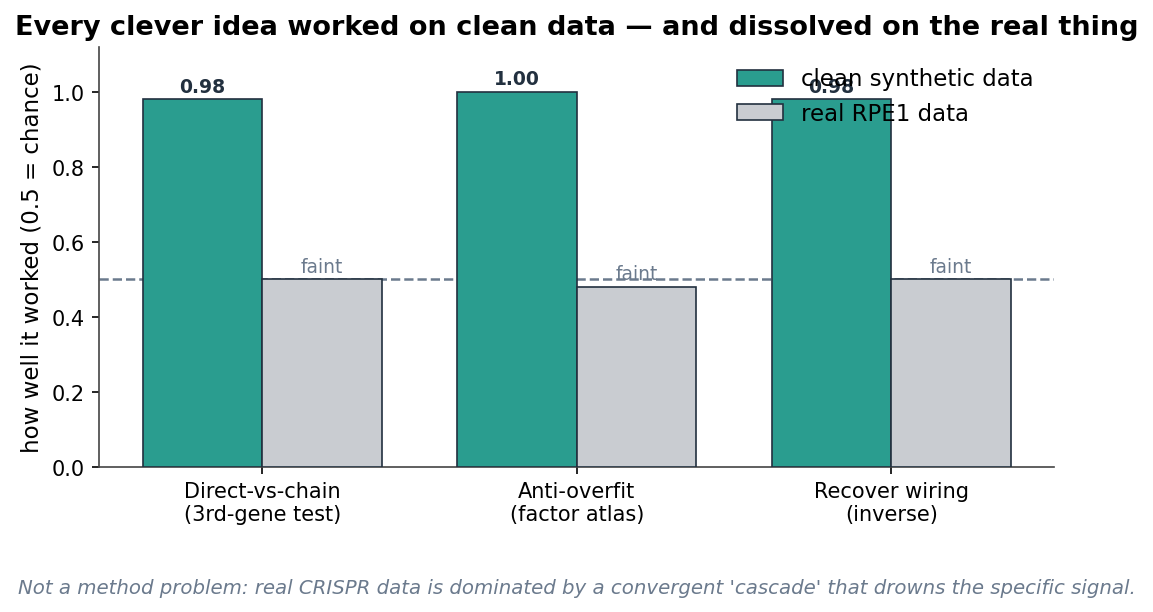
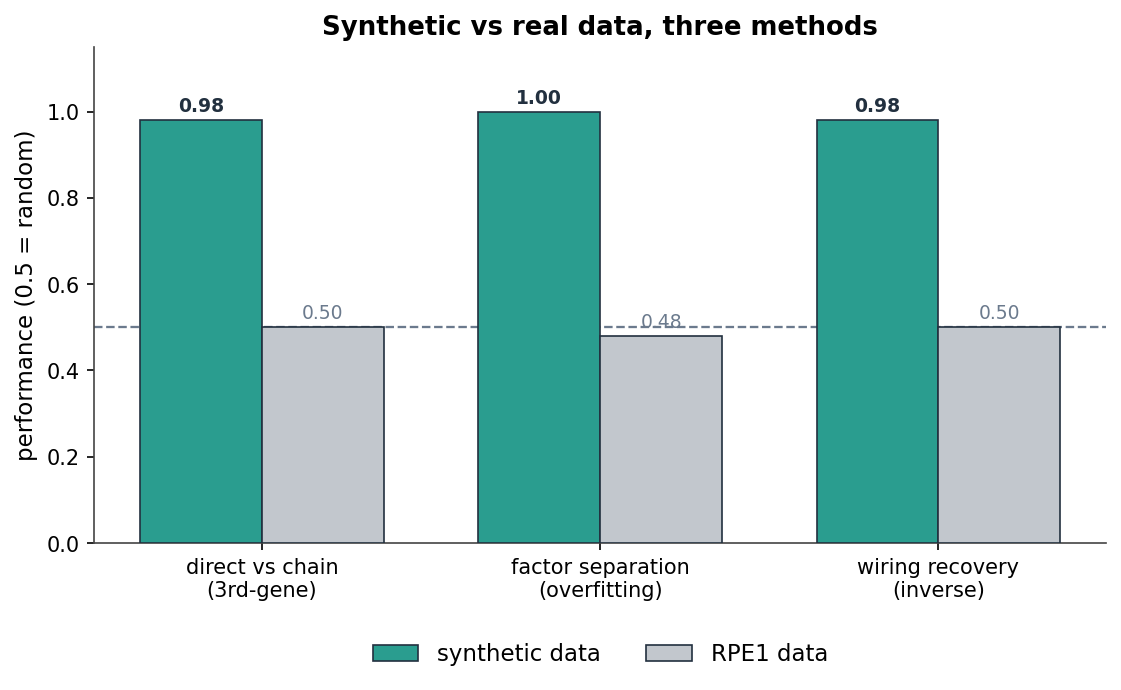
Rewrite README in technical style; fix figure text overlap
Replace promotional phrasing with factual statements and numbers. Remove em-dashes,
first-person, and editorial captions. Expand method and result detail (correlation,
LASSO, GENIE3, stability selection, fusion, interventional diagnostics) with the actual
metrics per phase. Regenerate the three figures with factual titles, non-overlapping
labels, and the legend placed outside the axes.

Changed region(s): [[0.0, 0.0, 0.9991, 0.8693], [0.0, 0.9314, 0.9679, 0.9935]]

diff --git a/docs/figures/make_figures.py b/docs/figures/make_figures.py
@@ -1,5 +1,4 @@
-"""Generate the README figures from the project's real numbers (no data reload needed).
-Run: python docs/figures/make_figures.py"""
+"""Generate README figures from the project's numbers. Run: python docs/figures/make_figures.py"""
 from pathlib import Path
 import matplotlib
 matplotlib.use("Agg")
@@ -11,69 +10,59 @@ plt.rcParams.update({
     "figure.facecolor": "white", "axes.facecolor": "white",
     "axes.edgecolor": "#444", "axes.linewidth": 0.8,
     "axes.spines.top": False, "axes.spines.right": False,
-    "font.size": 11, "axes.titlesize": 13, "axes.titleweight": "bold",
+    "font.size": 11, "axes.titlesize": 12.5, "axes.titleweight": "bold",
     "axes.labelsize": 11, "xtick.labelsize": 10, "ytick.labelsize": 10,
 })
 INK, MUTED = "#22303f", "#6b7a8d"
-TEAL, CORAL, GOLD, SLATE = "#2a9d8f", "#e76f51", "#e9c46a", "#577399"
+TEAL, CORAL, GOLD = "#2a9d8f", "#e76f51", "#e9c46a"
 
 
-# ---- Figure 1: the regime ladder ----
-fig, ax = plt.subplots(figsize=(8, 4.4))
-labels = ["DREAM4\n(time-series,\nsimulated)", "BEELINE\n(static\nsingle-cell)", "CausalBench / RPE1\n(real CRISPR\ninterventions)"]
+# ---- Figure 1: orientation accuracy by data type ----
+fig, ax = plt.subplots(figsize=(7.6, 4.6))
+labels = ["DREAM4\n(time-series,\nsimulated)", "BEELINE\n(static\nsingle-cell)", "RPE1\n(CRISPR\ninterventions)"]
 centers = [0.92, 0.60, 0.67]
 lo = [0.88, 0.50, 0.61]; hi = [0.96, 1.00, 0.70]
-colors = [TEAL, GOLD, CORAL]
 x = np.arange(3)
-ax.bar(x, centers, width=0.6, color=colors, edgecolor=INK, linewidth=0.8, zorder=3)
+ax.bar(x, centers, width=0.55, color=[TEAL, GOLD, CORAL], edgecolor=INK, linewidth=0.8, zorder=3)
 ax.errorbar(x, centers, yerr=[np.array(centers) - lo, np.array(hi) - centers],
-            fmt="none", ecolor=INK, elinewidth=1.4, capsize=6, zorder=4)
-ax.axhline(0.5, ls="--", color=MUTED, lw=1.2, zorder=2)
-ax.text(2.45, 0.515, "chance (can't orient)", color=MUTED, fontsize=9, ha="right")
+            fmt="none", ecolor=INK, elinewidth=1.3, capsize=6, zorder=4)
+ax.axhline(0.5, ls="--", color=MUTED, lw=1.1, zorder=2)
+ax.text(2.55, 0.47, "0.5 = random", color=MUTED, fontsize=9, va="top", ha="right")
 for xi, c in zip(x, centers):
-    ax.text(xi, c + 0.055, f"{c:.2f}", ha="center", fontweight="bold", color=INK)
+    ax.text(xi, c + 0.05, f"{c:.2f}", ha="center", fontweight="bold", color=INK)
 ax.set_xticks(x); ax.set_xticklabels(labels)
-ax.set_ylim(0.35, 1.05); ax.set_ylabel("recoverability of edge direction")
-ax.set_title("Direction is only recoverable when the data contains it")
-ax.text(0.5, -0.34, "Identifiability is set by the data regime, not the method — the project's main finding.",
-        transform=ax.transAxes, ha="center", fontsize=9.5, color=MUTED, style="italic")
+ax.set_xlim(-0.75, 2.6); ax.set_ylim(0.4, 1.05)
+ax.set_ylabel("orientation accuracy")
+ax.set_title("Edge-direction recovery by data type")
 fig.tight_layout(); fig.savefig(OUT / "fig1_regime_ladder.png", dpi=150, bbox_inches="tight"); plt.close(fig)
 
 
-# ---- Figure 2: every idea worked on clean data, dissolved on real ----
-fig, ax = plt.subplots(figsize=(8, 4.4))
-ideas = ["Direct-vs-chain\n(3rd-gene test)", "Anti-overfit\n(factor atlas)", "Recover wiring\n(inverse)"]
-clean = [0.98, 1.00, 0.98]
-real = [0.50, 0.48, 0.50]
-x = np.arange(3); w = 0.38
-ax.bar(x - w/2, clean, w, label="clean synthetic data", color=TEAL, edgecolor=INK, linewidth=0.8, zorder=3)
-ax.bar(x + w/2, real, w, label="real RPE1 data", color="#c9ccd1", edgecolor=INK, linewidth=0.8, zorder=3)
-ax.axhline(0.5, ls="--", color=MUTED, lw=1.2, zorder=2)
+# ---- Figure 2: synthetic vs real performance ----
+fig, ax = plt.subplots(figsize=(7.6, 4.8))
+ideas = ["direct vs chain\n(3rd-gene)", "factor separation\n(overfitting)", "wiring recovery\n(inverse)"]
+clean = [0.98, 1.00, 0.98]; real = [0.50, 0.48, 0.50]
+x = np.arange(3); w = 0.36
+b1 = ax.bar(x - w/2, clean, w, color=TEAL, edgecolor=INK, linewidth=0.8, zorder=3)
+b2 = ax.bar(x + w/2, real, w, color="#c2c7cd", edgecolor=INK, linewidth=0.8, zorder=3)
+ax.axhline(0.5, ls="--", color=MUTED, lw=1.1, zorder=2)
 for xi, c, r in zip(x, clean, real):
     ax.text(xi - w/2, c + 0.02, f"{c:.2f}", ha="center", fontsize=9, fontweight="bold", color=INK)
-    ax.text(xi + w/2, r + 0.02, "faint", ha="center", fontsize=9, color=MUTED)
+    ax.text(xi + w/2, r + 0.02, f"{r:.2f}", ha="center", fontsize=9, color=MUTED)
 ax.set_xticks(x); ax.set_xticklabels(ideas)
-ax.set_ylim(0, 1.12); ax.set_ylabel("how well it worked (0.5 = chance)")
-ax.set_title("Every clever idea worked on clean data — and dissolved on the real thing")
-ax.legend(frameon=False, loc="upper right")
-ax.text(0.5, -0.3, "Not a method problem: real CRISPR data is dominated by a convergent 'cascade' that drowns the specific signal.",
-        transform=ax.transAxes, ha="center", fontsize=9.5, color=MUTED, style="italic")
+ax.set_ylim(0, 1.15); ax.set_ylabel("performance (0.5 = random)")
+ax.set_title("Synthetic vs real data, three methods")
+ax.legend([b1, b2], ["synthetic data", "RPE1 data"], frameon=False,
+          loc="upper center", bbox_to_anchor=(0.5, -0.16), ncol=2)
 fig.tight_layout(); fig.savefig(OUT / "fig2_clean_vs_real.png", dpi=150, bbox_inches="tight"); plt.close(fig)
 
 
-# ---- Figure 3: the cascade (one shared program dominates) ----
-fig, ax = plt.subplots(figsize=(7, 4.4), subplot_kw=dict(aspect="equal"))
-sizes = [53, 47]
-wedges, _ = ax.pie(sizes, colors=[CORAL, "#e7e9ec"], startangle=90, counterclock=False,
-                   wedgeprops=dict(width=0.42, edgecolor="white", linewidth=2))
-ax.text(0, 0.08, "53%", ha="center", fontsize=26, fontweight="bold", color=CORAL)
-ax.text(0, -0.16, "one shared\nprogram", ha="center", fontsize=10, color=MUTED)
-ax.set_title("Why real data is hard: the cell-cycle 'whirlpool'", pad=14)
-ax.text(0, -1.32,
-        "Knock out almost ANY essential gene -> the cell runs the same damage program.\n"
-        "One convergent 'cell-cycle' mode (CCNB1, MCM3, RRM2, DNMT1, H2AFZ...) is 53% of\n"
-        "every response. The specific A->B wiring is a tiny signal buried underneath it.",
-        ha="center", fontsize=9.2, color=INK)
+# ---- Figure 3: dominant response component ----
+fig, ax = plt.subplots(figsize=(6.4, 4.2), subplot_kw=dict(aspect="equal"))
+ax.pie([53, 47], colors=[CORAL, "#e7e9ec"], startangle=90, counterclock=False,
+       wedgeprops=dict(width=0.42, edgecolor="white", linewidth=2))
+ax.text(0, 0.10, "53%", ha="center", fontsize=25, fontweight="bold", color=CORAL)
+ax.text(0, -0.18, "top component", ha="center", fontsize=10, color=MUTED)
+ax.set_title("Dominant component of the RPE1 response matrix", pad=12)
 fig.tight_layout(); fig.savefig(OUT / "fig3_cascade.png", dpi=150, bbox_inches="tight"); plt.close(fig)
 
 print("wrote fig1_regime_ladder.png, fig2_clean_vs_real.png, fig3_cascade.png")

diff --git a/README.md b/README.md
@@ -1,114 +1,101 @@
 # stable-grn-inference
 
-**A research log: can you recover *who regulates whom* from gene-expression data — and what it actually takes to pull structure out of messy dynamic data?**
+Gene regulatory network (GRN) inference tested across three data types: a simulated benchmark (DREAM4), static single-cell data (BEELINE), and CRISPR perturbation data (CausalBench / Replogle RPE1 Perturb-seq). The repository contains 25 experiments, each with its script, generated results, and a write-up.
 
-This repo is an honest, end-to-end exploration of **gene regulatory network (GRN) inference**, run across three kinds of data — a clean simulator (DREAM4), real single-cell snapshots (BEELINE), and real CRISPR-perturbation data (CausalBench / Replogle RPE1 Perturb-seq). It documents **25 experiments** the way research actually goes: what we hoped, what happened, the mistakes in hindsight, and the lesson — negatives included.
+## Scope
 
-The headline finding is unglamorous and real:
+Each experiment ranks candidate directed edges (gene A regulates gene B) by a score, then grades the ranking against a known or proxy network using AUROC, AUPR, precision@k, and early precision ratio (EPR). Methods compared include absolute correlation, LASSO and Elastic Net with a regularization sweep, random-forest feature importance (GENIE3-style), bootstrap/subsampling stability selection, and rank fusion. Later experiments add interventional diagnostics specific to perturbation data.
 
-> **Whether you can recover causal *direction* is set by the kind of data you have, not by how clever the method is.**
+![Edge-direction recovery by data type](docs/figures/fig1_regime_ladder.png)
 
-![the regime ladder](docs/figures/fig1_regime_ladder.png)
+## Results
 
----
+1. Edge-direction (orientation) recovery depends on the data type. Orientation accuracy, the fraction of detected pairs assigned the correct arrow direction, was 0.88 to 0.96 on DREAM4 lagged time-series, 0.50 to 1.00 across BEELINE static networks (mean 0.60), and corresponded to 61% decidable pairs on RPE1 interventions, reproducible across independent cell halves at 0.64 to 0.70. A symmetric score such as correlation gives 0.50 by construction.
 
-## What we found (honest TL;DR)
+2. Correlation is a strong baseline. On DREAM4 Size10 multifactorial data: absolute correlation AUPR 0.33 / AUROC 0.67; LASSO at alpha 0.01 AUPR 0.20; LASSO at alpha 0.1 AUPR 0.29; random-forest importance AUPR 0.30. No method clearly exceeded correlation on this data.
 
-- **Direction needs the right data, not a better model.** Time-series → direction is nearly free; static snapshots → near-impossible; interventions → recoverable. *(figure above)*
-- **The original thesis — "stability selection makes inference more reliable" — does not hold.** Tested directly with the proper math; it underperforms a single well-tuned fit.
-- **The one clean, transferable positive:** the right amount of regularization is **predictable from sample-complexity theory** (√(log p / n)) in *every* regime — not something you have to grid-search.
-- **On real CRISPR data, simple methods barely predict interventional effects** — and the field's own benchmarks agree: even deep-learning foundation models often fail to beat simple baselines here. This is an *unsolved frontier*, not a thing we were "losing" at.
-- **Every clever idea worked on clean synthetic data and dissolved on real data** — because real Perturb-seq is dominated by one convergent biological "cascade."
+3. Temporal ordering improves recovery. Scoring source expression at time t against target expression at time t+1 raised AUPR from 0.30 to 0.53 (random forest) on Size10 time-series, compared with same-time scoring.
 
-![clean vs real](docs/figures/fig2_clean_vs_real.png)
+4. Regularization strength tracks network density. The best LASSO alpha rose from 0.03 (Size10, edge density near 16%) to 0.1 (Size100, density near 2%). The theoretical penalty alpha proportional to sqrt(2 log p / n) matched cross-validation and BIC selection within one grid step.
 
----
+5. Stability selection did not improve ranking. Selection-frequency ranking underperformed a single cross-validated fit, and the Meinshausen-Buhlmann false-positive bound was uninformative at p much greater than n.
 
-## The story in three acts
+6. Rank fusion helps only with complementary errors. Borda fusion improved Size100 AUPR (0.21 versus 0.17 for the best single method) where base methods disagreed. It gave no benefit at Size10, where one method already dominated.
 
-**Act I — DREAM4 (a clean simulator).** Built the whole pipeline and learned the mechanics: temporal order beats a fancier model, regularization tracks network density, fusion helps only when methods make *different* mistakes, and the stability-selection thesis quietly failed. Decent edge recovery (AUPR ≈ 0.65 vs ≈ 0.33 for plain correlation) — but it's a simulator, so "decent" was expected, not novel.
+7. On RPE1, observational scores weakly predict interventional effects. The Spearman correlation between absolute inferred score (computed on control cells) and absolute measured perturbation response was 0.13 for correlation, 0.04 for sparse regression, and 0.00 for random-forest importance. Published benchmarks (PerturBench; the GSK.ai CausalBench Challenge) report the same pattern, with simple baselines matching deep-learning models on this task.
 
-**Act II — BEELINE (real single-cell).** Ported the exact diagnostics to a real benchmark and found DREAM4's conclusions are **regime-specific**: on static snapshots, edge direction collapses toward a coin-flip and depends heavily on the network. The lesson that became the spine of the project: *the data regime decides what's knowable.*
+8. Methods that recover structure on simulated data do not transfer to RPE1. Three approaches reached near-perfect scores on synthetic data where their generating assumptions held, then dropped to near-random on RPE1.
 
-**Act III — CausalBench / RPE1 (real CRISPR).** Direction returns under intervention and is even *reproducible* across independent cells — but the response is buried under a giant, convergent **cell-cycle cascade**, and no simple structure cleanly survives it.
+![Synthetic versus real performance](docs/figures/fig2_clean_vs_real.png)
 
-![the cascade](docs/figures/fig3_cascade.png)
+## Why the RPE1 response resists decomposition
 
-### Why real data is hard: the "whirlpool"
+![Dominant component of the RPE1 response matrix](docs/figures/fig3_cascade.png)
 
-Knock out almost *any* essential gene and the cell runs the **same** emergency program — it stops dividing, moving hundreds of cell-cycle genes together at once. That convergent program is **53% of every perturbation response.** The thing we actually want — "gene A specifically controls gene B" — is a tiny signal riding on top of it, and tangled with it. That single fact explains every faint result in this repo. It's the geometry of the data, not a failure of the methods.
+Knockout of most essential genes triggers a convergent cell-cycle arrest program that shifts several hundred genes together. This program accounts for 53% of the perturbation-response variance, but only about 4% of variance in unperturbed control cells, so it is a response effect rather than a baseline one. Top-loading genes are CCNB1, MCM3, RRM2, DNMT1, and H2AFZ. Gene-specific effects are small relative to this component and are not linearly separable from it: subtracting the component reduces split-half stability instead of isolating a cleaner signal.
 
----
+## Methods and findings by phase
 
-## What we got right, and wrong (honest)
+### Phase 1: DREAM4 (simulated, known network)
+- exp 01 to 04. Baselines. Correlation was the strongest single method; tuned LASSO and GENIE3-style random forests were competitive but did not exceed it.
+- exp 07. Lagged time-series construction (source at t, target at t+1). AUPR 0.30 to 0.53.
+- exp 08 to 10. Dynamic sparse-linear models. The best Size10 model (LASSO, level target, self predictor included, alpha 0.03) reached AUPR 0.65 / AUROC 0.82. It did not scale to Size100 (won 0 of 5 networks); the best Size100 setting used stronger regularization (alpha 0.1).
+- exp 11 to 14. Regularization sweep, rank fusion, mechanism audit, and gold-label-free selection. Best alpha tracks density; cross-validation and BIC selection retained 96 to 100% of the oracle-tuned AUPR.
 
-**Right** — a portable diagnostic framework; honest negatives that *match the published literature*; the theory-predictable-penalty result; and a clear map of *why* the problem is hard and where the intuitions live in real mathematics.
+### Phase 2: BEELINE (real single-cell, curated networks)
+- exp 15 to 16. Adapter for BEELINE-format datasets. Static methods (correlation, trees, sparse, fusion) transfer; lagged methods do not, since there is no time axis. Reference networks are biological proxies, so EPR is reported alongside AUPR.
+- exp 17 to 18. The DREAM4 diagnostics applied to both benchmarks. Orientation accuracy is regime-dependent: high on DREAM4 time-series, variable and often near 0.50 on BEELINE static data. The theory-based penalty held; the stability-selection result held (no improvement).
 
-**Wrong** — we over-narrated early results ("it worked! let's try the next dataset!") instead of reasoning about the data's geometry *first* and predicting that, e.g., a static-snapshot method can't recover direction. The corrected habit: **predict from the geometry, then test only to confirm.** Two days of this also produced a lot of "promising" framings that honest re-checks (multi-seed audits, magnitude controls) later deflated — left in the repo on purpose, because that's what the work actually looked like.
-
----
+### Phase 3: CausalBench / RPE1 (real CRISPR perturbation)
+- exp 19 to 20. Interventional benchmark. Working set of 651 perturbed genes, about 140,000 cells, 11,485 controls. Direction decidable for 61% of perturbed pairs; observational transfer AUROC 0.57.
+- exp 21 to 22. Response-matrix geometry. Top component is 53% of variance; the cell-cycle program is identified; covariate and component removal do not isolate a cleaner gene-specific core.
+- exp 23. Inverse / deconvolution (W = I minus (I + D) inverse). Exact recovery on synthetic linear systems; no improvement over the raw effect on RPE1.
+- exp 24. Leave-one-perturbation-out prediction. Shared low-rank structure does not predict a held-out perturbation better than its own split-half estimate.
+- exp 25. Counterfactual feature test (remove a feature: does class identity survive; add it to a rival: does the rival convert). Recovers planted ground truth on synthetic data; does not separate cell-cycle from gene-specific effects on RPE1.
 
 ## Experiment log
 
-| # | experiment | what we hoped | what happened | lesson |
-|---|---|---|---|---|
-| 01–04 | DREAM4 baselines, GENIE3 | a method beats correlation | correlation is a strong baseline; GENIE3 wins some | don't assume "more ML" wins |
-| 07 | lagged time-series | does temporal order help? | big jump (AUPR 0.30→0.53) | **directional info in the data > clever model** |
-| 08–10 | dynamic sparse, Size100 scaling | the Size10 winner scales | it collapsed at 100 genes | small-network results can be artifacts |
-| 11–14 | calibration, fusion, mechanism, gold-free | explain & deploy the winners | α tracks density; fusion needs complementary errors | regularization is predictable, not magic |
-| 15–18 | BEELINE adapter + diagnostics | DREAM4 results transfer | **they don't** — direction is regime-specific | identifiability is set by the data regime |
-| 19 | interventional benchmark scouting | pick data where direction is identifiable | chose CausalBench (real CRISPR) | go where the evidence actually is |
-| 20 | CausalBench RPE1 diagnostics | direction returns under intervention | yes (0.61 decidable) but reference is dense | interventions help; the response is broad |
-| 21 | response geometry | structure in the response matrix | reproducible direction (0.70); 53% is one mode | the cascade is real and dominant |
-| 22 | covariate-aware cleaning | subtract the cascade → clean core | removing it *hurts*; it's real biology | the nuisance is entangled with the signal |
-| 23 | inverse / "find the stick" | recover wiring from total response | perfect on toy, useless on real | the linear model is too clean for biology |
-| 24 | transferable structure | predict a held-out perturbation | no — each is individualistic | no shared low-rank code to exploit |
-| 25 | counterfactual factor atlas | separate core from nuisance features | **works on planted ground truth**; doesn't transfer to genes | the idea is sound where factors are separable |
-
-*Each experiment has its own write-up under `experiments/NN_*/` with the full numbers, the honest verdict, and (where relevant) figures.*
-
----
-
-## The bottom line, and the pivot
-
-The "novel gene-network result" path is **effectively closed with these tools** — RPE1 is a genuine unsolved frontier dominated by the cascade, and that was established honestly in two days. The durable value is the understanding.
-
-And the project found its real question along the way: the actual interest was never genes, it was **decomposing dynamic data into mathematical components** — which is a real, named field. The intuitions here map directly onto:
-
-- **state-space / dynamical-systems models** (`dx/dt = f(x) + u`),
-- **Dynamic Mode Decomposition (DMD) / Koopman theory** — born from fluid dynamics, the rigorous version of "subtract the dominant mode, study the deviations,"
-- **SINDy** — literally "recover the differential equation from movement data."
-
-The gene cascade was one ugly, real-world instance of exactly that problem.
-
----
-
-## Read more
-
-| document | what it is |
-|---|---|
-| [`docs/project_retrospective.md`](docs/project_retrospective.md) | plain-language walk through everything (exp 1–22), **with the statistics explained from scratch** |
-| [`docs/project_retrospective_part2.md`](docs/project_retrospective_part2.md) | the hands-on half (exp 23–25 + the theory-crafting) and the pivot |
-| [`docs/regime_ladder_report.md`](docs/regime_ladder_report.md) | the paper-style consolidated writeup of the interventional arc |
-| [`docs/experiment_summary.md`](docs/experiment_summary.md) | the running, detailed results log |
+| #     | experiment | method | result |
+|-------|---|---|---|
+| 01-04 | DREAM4 baselines | correlation, LASSO, Elastic Net, random forest | correlation AUPR 0.33 highest; LASSO 0.29, RF 0.30 |
+| 07    | lagged time-series | source(t) to target(t+1) | AUPR 0.30 to 0.53 |
+| 08-09 | dynamic sparse | LASSO level/delta, self in/out | best Size10 AUPR 0.65 / AUROC 0.82 |
+| 10    | Size100 scaling | same model, 100 genes | did not scale; alpha 0.1 best; fusion AUPR 0.21 |
+| 11-14 | calibration, fusion, mechanism | alpha sweep, CV/BIC, self-permutation | alpha tracks density; CV/BIC retain 96-100% of oracle |
+| 15-16 | BEELINE adapter | static methods on single-cell | transfer confirmed; references are proxies |
+| 17-18 | orientation diagnostics | skeleton vs orientation, sqrt-LASSO, stability | orientation 0.88-0.96 (DREAM4) vs 0.50-1.00 (BEELINE) |
+| 19    | interventional scouting | benchmark selection | CausalBench / RPE1 selected |
+| 20    | RPE1 diagnostics | Wasserstein effect, direction asymmetry | 61% decidable; observational AUROC 0.57 |
+| 21    | response geometry | SVD, split-half stability | top component 53%; direction reproducible 0.70 |
+| 22    | covariate cleaning | program / covariate residualization | removing cell-cycle reduces stability |
+| 23    | inverse deconvolution | W = I - (I+D)^-1 | exact on synthetic; no gain on RPE1 |
+| 24    | held-out perturbation | low-rank prediction | no transfer beyond self-estimate |
+| 25    | counterfactual feature test | necessity / sufficiency | recovers synthetic truth; no transfer to RPE1 |
 
 ## Reproduce
 
 ```bash
-# Python 3.13, deps in requirements.txt
+# Python 3.13, dependencies in requirements.txt
 $env:PYTHONPATH = "src"
-.\.venv\Scripts\python.exe -B -m unittest discover -s tests          # 145 tests
-.\.venv\Scripts\python.exe -B experiments/<NN_name>/run_*.py --quick # any experiment
+.\.venv\Scripts\python.exe -B -m unittest discover -s tests            # 145 tests
+.\.venv\Scripts\python.exe -B experiments/<NN_name>/run_*.py --quick   # any experiment
+.\.venv\Scripts\python.exe -B docs/figures/make_figures.py             # regenerate figures
 ```
 
-Real datasets (`data/`) and generated tables (`results/`) are git-ignored; the test suite never depends on them (it uses synthetic fixtures). Committed figures are regenerated by `docs/figures/make_figures.py`.
+Datasets (`data/`) and generated tables (`results/`) are git-ignored; the test suite uses synthetic fixtures and does not depend on them.
 
 ## Layout
 
 ```text
 stable-grn-inference/
 ├── src/stable_grn_inference/   # library: data adapters, inference, evaluation, analysis
-├── experiments/                # 25 experiments, each with a write-up + script + tests
-├── docs/                       # retrospectives, reports, figures
+├── experiments/                # 25 experiments, each with a write-up, script, and tests
+├── docs/                       # reports and figures
 └── tests/                      # 145 tests, synthetic fixtures only
 ```
+
+## Further reading
+
+- [`docs/experiment_summary.md`](docs/experiment_summary.md): detailed per-experiment results and cross-experiment conclusions.
+- [`docs/regime_ladder_report.md`](docs/regime_ladder_report.md): consolidated report on the interventional experiments (17 to 25).
+- Each `experiments/NN_*/` directory contains the full numbers and the per-experiment write-up.